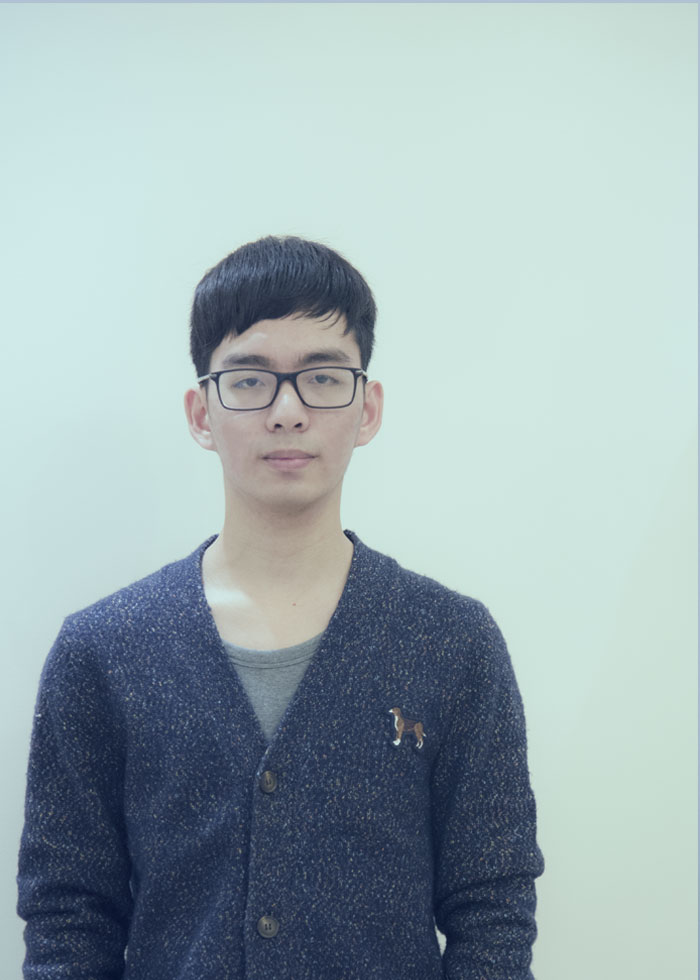
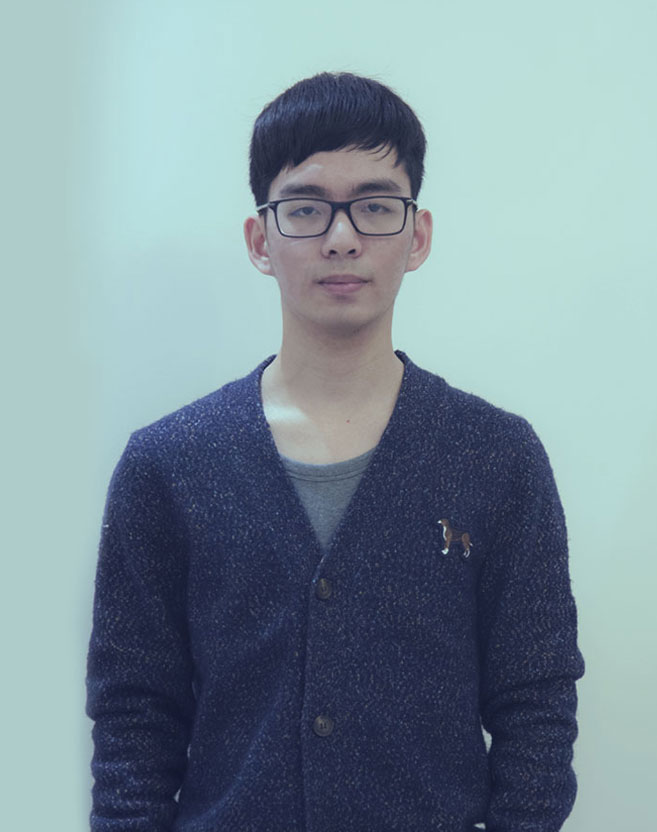
将竖版图片用更合适的图片替换

diff --git a/tec/index.html b/tec/index.html
@@ -1,7 +1,7 @@
 <!DOCTYPE html>
 <html lang="en">
 <head>
-    <meta name="viewport" content="width=device-width, initial-scale=1.0">
+    <meta name="viewport" content="width=device-width, initial-scale=1.0"/>
     <meta http-equiv="Content-Type" content="text/html; charset=utf-8"/>
     <title>首页</title>
     <link rel="stylesheet" type="text/css" href="css/style.css">
@@ -107,7 +107,7 @@
                 </div>
                 <div class="list_content_info" data-name="fengchang">
                     <div class="person_img">
-                        <img src="feiyangtech/fengchang/fengchang_horizontal.jpg">
+                        <img src="feiyangtech/fengti/fengti_horizontal.jpg">
                     </div>
                     <div class="person_name">冯倜</div>
                     <div class="person_year">2015</div>
